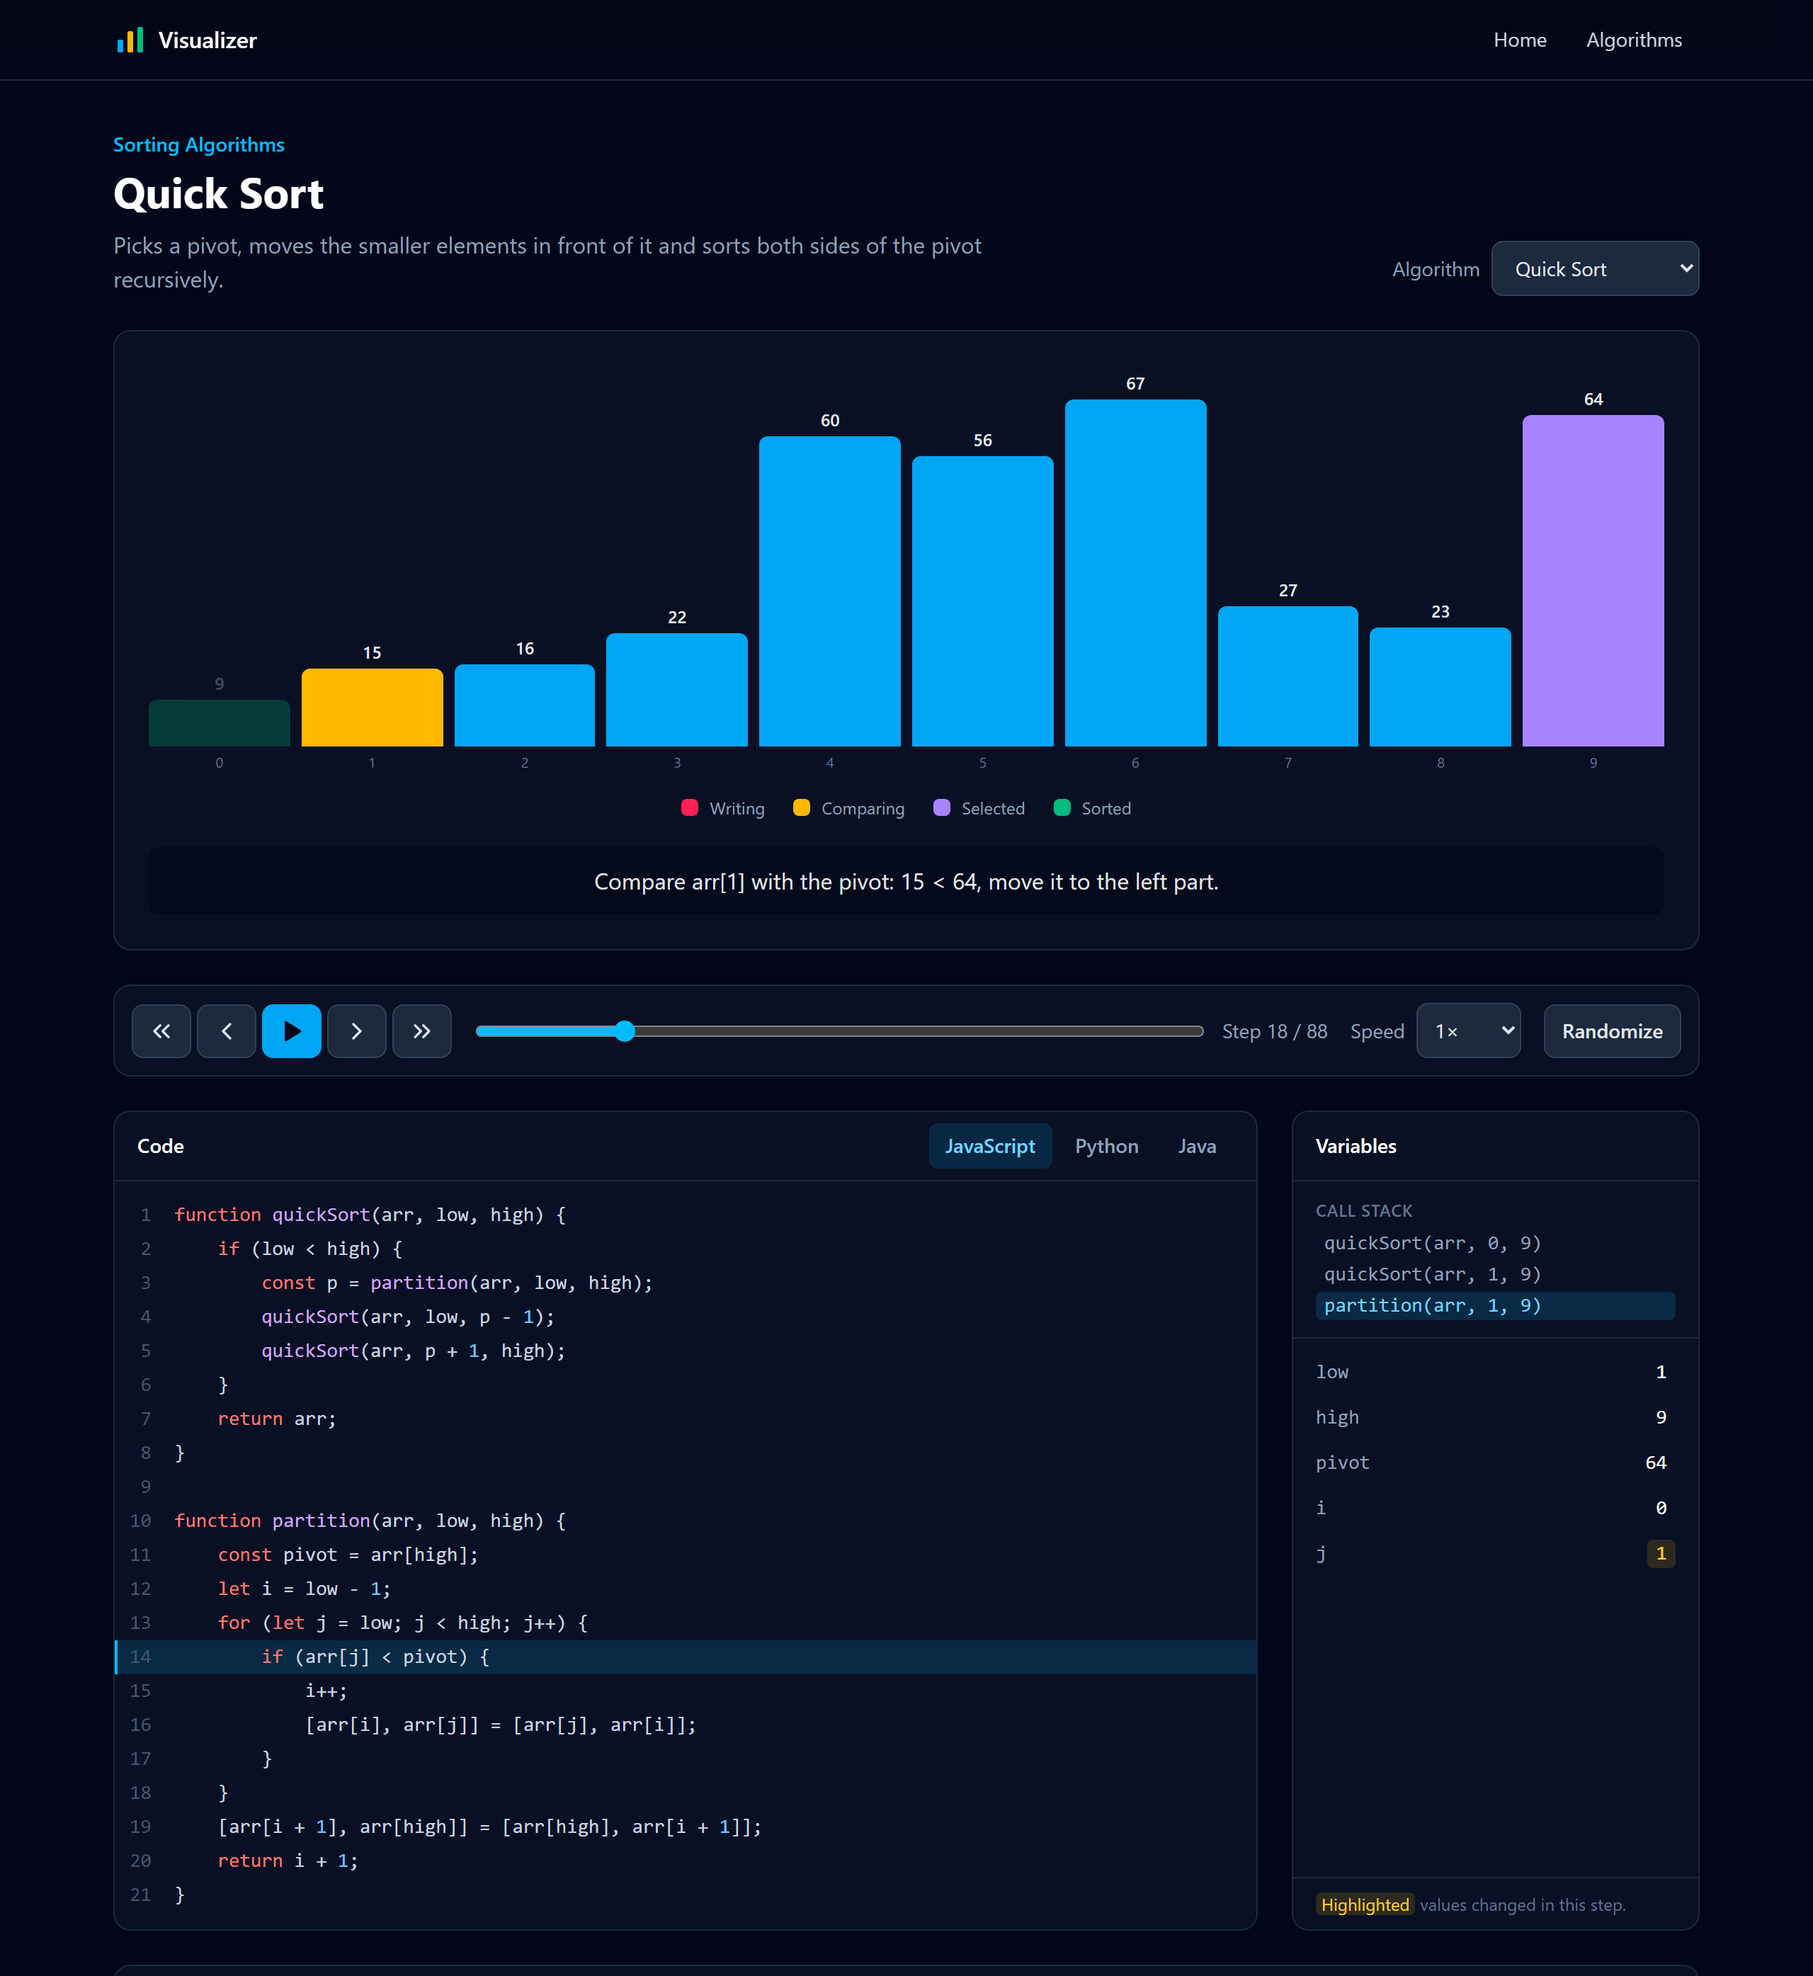
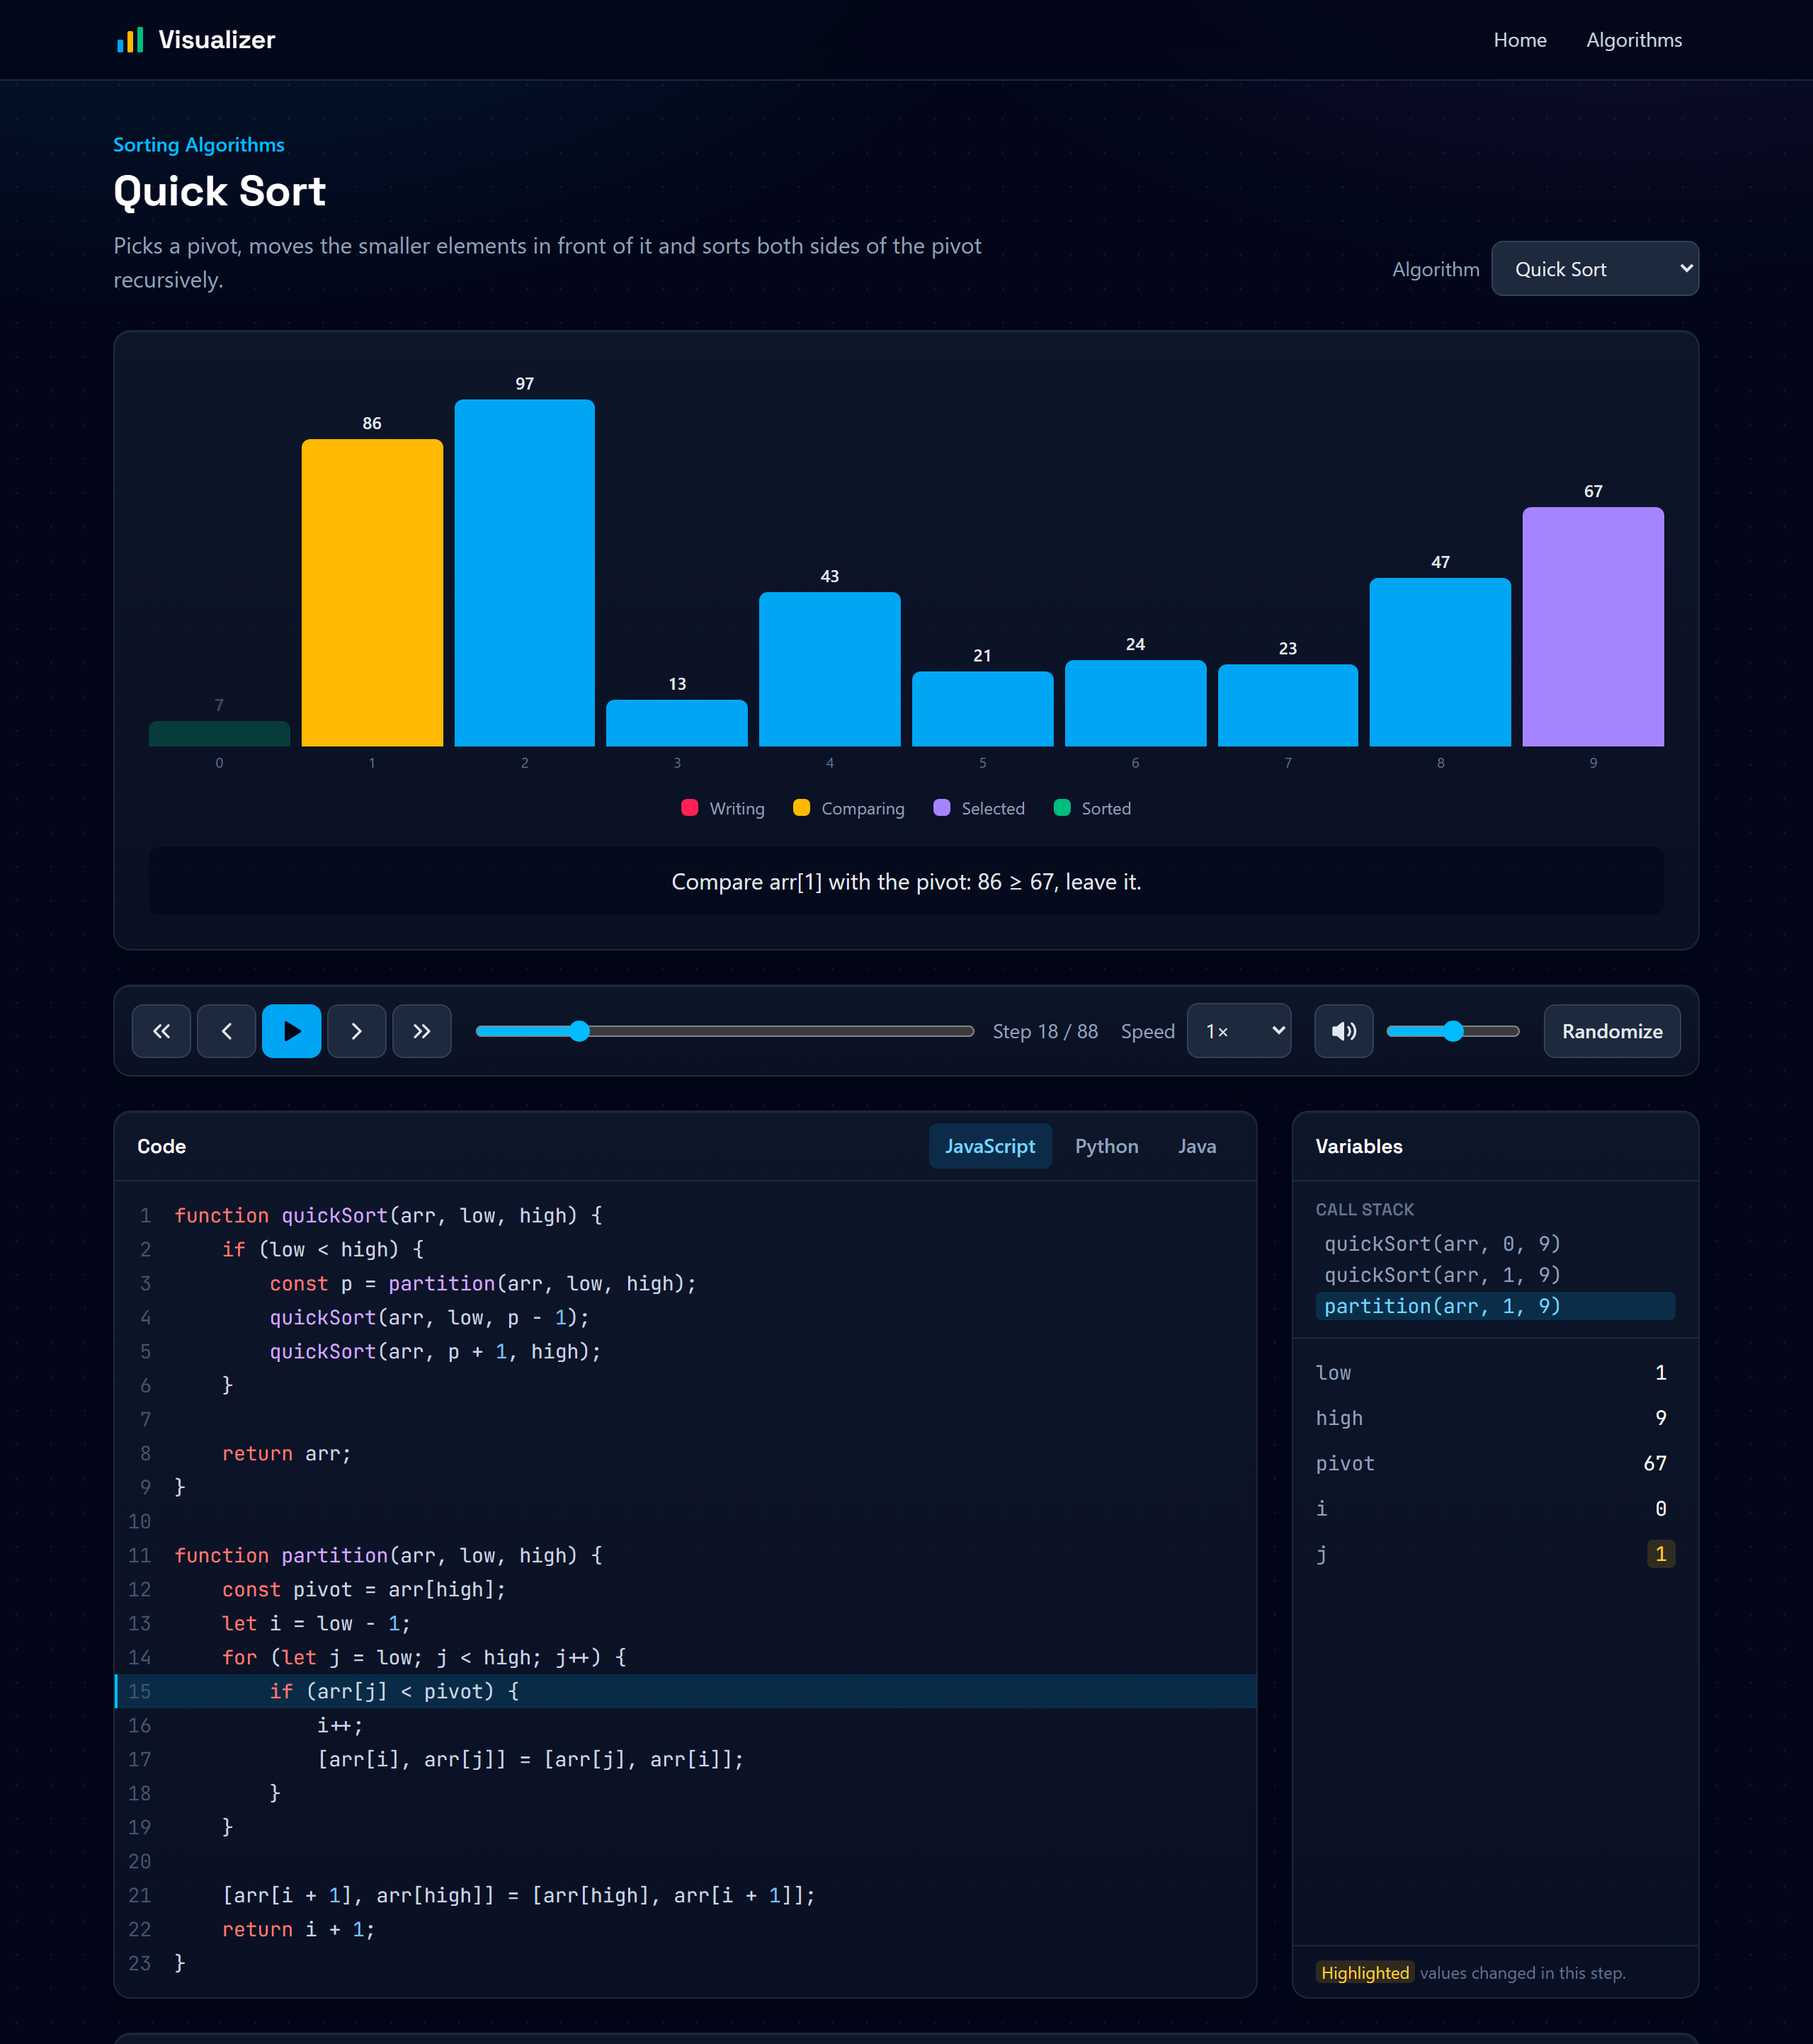
chore: update docs

diff --git a/docs.md b/docs.md
@@ -22,7 +22,7 @@ backend/     Express API (TypeScript)
 	src/     Repository (loads JSON), routes, app, server
 frontend/    Vanilla TypeScript + Vite + Tailwind CSS
 	src/algorithms/ Step generators and visualizers, grouped by category
-	src/components/ Code panel, variables panel, playback controls, algorithm info
+	src/components/ Code panel, variables panel, playback controls, algorithm info, live preview
 	src/pages/      Home, algorithm and message (404 / error) pages
 	src/router.ts   History API router (/:category/:algorithm)
 	src/player.ts   Step playback (play, pause, step, seek, speed)
@@ -81,6 +81,22 @@ Sorting derives the action from the step's highlights (`sortAction` in `sorting/
 sorting algorithm gets sounds without extra work. The sounds are generated with the Web Audio API, the volume
 and the mute state are saved in `localStorage`.
 
+### Home page
+
+The home page reuses the same building blocks:
+
+- the **live preview** (`components/livePreview.ts`) plays Bubble Sort in a loop with a compact visualizer,
+	the real code from the JSON and its variables. With `prefers-reduced-motion` it shows a single still step.
+- every **algorithm card** shows a compact snapshot of a random run at 40 % and its average time complexity.
+
+A compact visualizer (`createVisualizer(true)`) has no labels or legend and takes the height of its parent.
+
+### Styling
+
+Tailwind CSS with a few shared classes in `frontend/src/style.css` (`.card`, `.button`, `.code-line`). The
+fonts are self-hosted with Fontsource (imported in `main.ts`): Space Grotesk for headings (`font-display`) and
+JetBrains Mono for code (`font-mono`).
+
 ## Adding an algorithm
 
 1. **Data**: add `backend/data/<category>/<slug>.json` (copy an existing one) and list the slug in
@@ -103,7 +119,8 @@ The URL is `/<category>/<slug>`, e.g. `/sortingAlgorithms/bubblesort`.
 ## Adding a new category (e.g. path-finding)
 
 Create a new folder in `frontend/src/algorithms/` with its own state type, a tracer or step helper, and a
-class implementing `Visualizer<TState>` (`element` + `render(state)`). Wrap them in an `AlgorithmModule`
+class implementing `Visualizer<TState>` (`element` + `render(state)`, with a compact variant for the home
+page). Wrap them in an `AlgorithmModule`
 together with an `actionOf(step)` function for the sounds (see `sorting/sortingModule.ts`) and register the
 algorithms. The page, player, code panel and variables
 panel need no changes.
